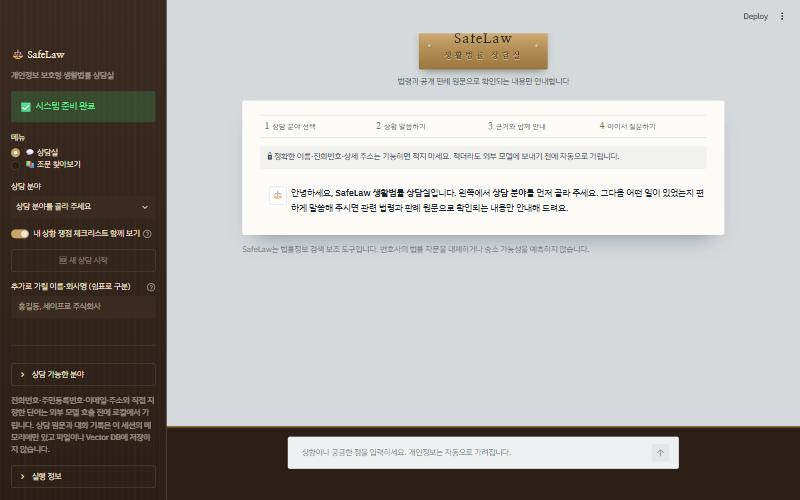
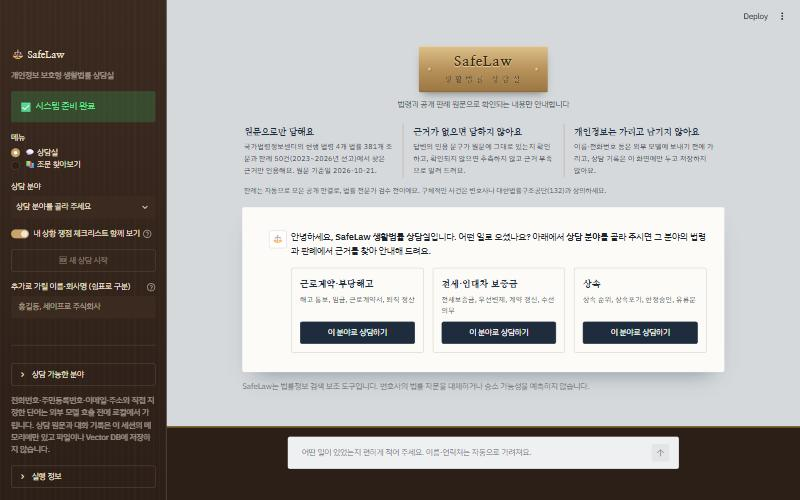
상담실 첫 화면에 신뢰 근거와 질문 진입점 추가
- 첫 질문 전 상담실 약속 3가지(원문으로만 답함, 근거 없으면 답하지 않음, 개인정보 가림·미저장)를 표시
- 법률·조문·판례 수와 선고 연도, 원문 기준일은 데이터셋 manifest에서 읽고, 판례 미검수와 법률구조공단(132)도 안내
- 상담 분야를 상담실 안 접수 카드에서 바로 선택, 상황 작성 요령과 이어 묻기 안내 추가
- 입력창 문구 정리, 모바일에서 사이드바 자동 접힘, 헤더가 문패를 가리지 않게 여백 조정
- 테스트 5개 추가(총 163개), README·검증 문서와 첫 화면 캡처 갱신

diff --git a/src/legal_rag/ui/streamlit_app.py b/src/legal_rag/ui/streamlit_app.py
@@ -2,6 +2,7 @@
 
 from __future__ import annotations
 
+import json
 import re
 import time
 from collections import Counter
@@ -33,6 +34,8 @@ STATUTE_CHUNKS_PATH = PROJECT_ROOT / "data" / "processed" / "statute_chunks.json
 CASE_INDEX_PATH = PROJECT_ROOT / "data" / "indexes" / "cases"
 STATIC_CASE_DATASET = PROJECT_ROOT / "data" / "processed" / "cases.json"
 CASE_CACHE_PATH = PROJECT_ROOT / "data" / "cache"
+STATUTE_MANIFEST_PATH = PROJECT_ROOT / "data" / "processed" / "statutes_manifest.json"
+CASE_MANIFEST_PATH = PROJECT_ROOT / "data" / "processed" / "cases_manifest.json"
 
 CATEGORY_LABELS = {
     LegalCategory.LABOR: "근로계약·부당해고",
@@ -148,6 +151,35 @@ def article_question(article_label: str, sanitized_question: str) -> str:
     """선택 조문을 질문 앞에 밝혀 검색과 답변이 그 조문을 중심으로 이뤄지게 한다."""
 
     return f"[선택 조문: {article_label}] {sanitized_question.strip()}"
+
+
+@dataclass(frozen=True, slots=True)
+class LibraryFacts:
+    statute_articles: int
+    law_count: int
+    case_count: int
+    oldest_decision: str
+    latest_decision: str
+    collected: str
+
+
+def load_library_facts(statute_manifest: Path = STATUTE_MANIFEST_PATH,
+                       case_manifest: Path = CASE_MANIFEST_PATH) -> LibraryFacts | None:
+    """상담실 약속 문구에 쓸 숫자를 데이터셋 manifest에서 읽는다. 읽지 못하면 숫자를 보여 주지 않는다."""
+
+    try:
+        statutes = json.loads(statute_manifest.read_text(encoding="utf-8"))
+        cases = json.loads(case_manifest.read_text(encoding="utf-8"))
+        return LibraryFacts(
+            statute_articles=int(statutes["document_count"]),
+            law_count=len(statutes["law_counts"]),
+            case_count=int(cases["document_count"]),
+            oldest_decision=str(cases["decision_date_range"]["oldest"]),
+            latest_decision=str(cases["decision_date_range"]["latest"]),
+            collected=str(statutes["collection_date"]),
+        )
+    except (OSError, ValueError, KeyError, TypeError):
+        return None
 
 
 def runtime_readiness(settings: Settings, index_path: Path | None = None) -> tuple[bool, str]:
@@ -270,7 +302,7 @@ def _inject_styles(st: Any) -> None:
         :root { --walnut: #2c1f18; --walnut-light: #3b2a20; --brass: #b08a52; --brass-dark: #8a6a38;
             --counsel: #1f2c3d; --paper: #fcfbf8; --wall: #d5d9dc; --ink-soft: #4b5560; }
         .stApp, [data-testid="stHeader"] { background: var(--wall); }
-        .block-container { max-width: 900px; padding-top: 1.4rem; padding-bottom: 7rem; }
+        .block-container { max-width: 900px; padding-top: 4rem; padding-bottom: 2rem; }
         [data-testid="stSidebar"] { background:
             repeating-linear-gradient(90deg, rgba(255,255,255,.018) 0 2px, transparent 2px 11px),
             linear-gradient(180deg, var(--walnut-light), var(--walnut)); }
@@ -296,13 +328,18 @@ def _inject_styles(st: Any) -> None:
         .st-key-consult_sheet, .st-key-checklist_panel { background: var(--paper); border-radius: 4px;
             box-shadow: 0 1px 0 rgba(31,44,61,.06), 0 22px 40px -22px rgba(31,44,61,.45); }
         .st-key-consult_sheet { padding: 1.6rem 2rem 1.2rem; }
-        .office-steps { display: grid; grid-template-columns: repeat(4, 1fr); margin: 0 0 .9rem;
-            border-top: 1px solid #e3ded2; border-bottom: 1px solid #e3ded2; }
-        .office-steps span { padding: .55rem .5rem; font-size: .84rem; color: var(--ink-soft); line-height: 1.35; }
-        .office-steps b { font-family: "Nanum Myeongjo", serif; font-size: 1rem; color: var(--brass-dark);
-            margin-right: .35rem; }
-        .privacy-box { background: #f1f2ef; border-radius: 4px; padding: .6rem .85rem; color: #34404b;
-            margin: 0 0 1rem; font-size: .88rem; }
+        .trust-row { display: grid; grid-template-columns: repeat(3, 1fr); margin: 0 0 1.3rem; }
+        .trust-row div { padding: .1rem 1.1rem; border-left: 1px solid rgba(138,106,56,.45); }
+        .trust-row div:first-child { border-left: 0; padding-left: .2rem; }
+        .trust-row strong { display: block; font-family: "Nanum Myeongjo", serif; font-size: 1rem;
+            color: var(--counsel); margin-bottom: .3rem; }
+        .trust-row p { margin: 0; font-size: .84rem; line-height: 1.55; color: #3a434d; }
+        [data-testid="stMarkdownContainer"] p.trust-note { margin: -.4rem 0 1.2rem .2rem; font-size: .8rem;
+            color: var(--ink-soft); }
+        .st-key-intake_choices [data-testid="stVerticalBlockBorderWrapper"] { background: #fff; }
+        [data-testid="stMarkdownContainer"] p.intake-title { font-family: "Nanum Myeongjo", serif; font-weight: 800; font-size: 1.05rem;
+            color: var(--counsel); margin: 0 0 .25rem; }
+        [data-testid="stMarkdownContainer"] p.intake-topics { font-size: .84rem; color: var(--ink-soft); margin: 0 0 .6rem; line-height: 1.5; min-height: 3em; }
         [data-testid="stChatMessage"] { background: transparent; }
         [data-testid="stChatMessage"]:has([aria-label="Chat message from user"]) { background: #edf0f4;
             border-radius: 4px; }
@@ -320,7 +357,8 @@ def _inject_styles(st: Any) -> None:
         @media (max-width: 640px) {
             [data-testid="stColumn"]:has(.st-key-checklist_panel) { position: static; max-height: none; }
             .st-key-consult_sheet { padding: 1.1rem 1rem .8rem; }
-            .office-steps { grid-template-columns: repeat(2, 1fr); }
+            .trust-row { grid-template-columns: 1fr; gap: .8rem; }
+            .trust-row div { border-left: 0; padding-left: .2rem; }
             .nameplate .plate { padding: .7rem 2.2rem .65rem; }
             .nameplate .firm { font-size: 1.35rem; }
         }
@@ -551,13 +589,58 @@ def _render_user_turn(st: Any, message: dict[str, Any]) -> None:
 def _consult_greeting(category: LegalCategory | None) -> str:
     if category is None:
         return (
-            "안녕하세요, **SafeLaw 생활법률 상담실**입니다. 왼쪽에서 **상담 분야**를 먼저 골라 주세요. "
-            "그다음 어떤 일이 있었는지 편하게 말씀해 주시면 관련 법령과 판례 원문으로 확인되는 내용만 안내해 드려요."
+            "안녕하세요, **SafeLaw 생활법률 상담실**입니다. 어떤 일로 오셨나요? "
+            "아래에서 **상담 분야**를 골라 주시면 그 분야의 법령과 판례에서 근거를 찾아 안내해 드려요."
         )
     return (
-        f"**{CATEGORY_LABELS[category]}** 상담을 도와드릴게요. 어떤 일이 있었는지 아래 입력창에 말씀해 주세요. "
+        f"**{CATEGORY_LABELS[category]}** 상담을 도와드릴게요. 어떤 일이 있었는지 아래 입력창에 편하게 말씀해 주세요. "
         "답변을 보신 뒤 궁금한 점을 이어서 물으시면 앞선 상담 내용을 함께 고려해 답해 드려요."
     )
+
+
+def _trust_row_html(facts: LibraryFacts | None) -> str:
+    if facts is None:
+        sources = "국가법령정보센터의 법령·판례 원문에서 찾은 근거만 인용해요."
+    else:
+        sources = (
+            f"국가법령정보센터의 현행 법령 {facts.law_count}개 법률 {facts.statute_articles}개 조문과 "
+            f"판례 {facts.case_count}건({facts.oldest_decision[:4]}~{facts.latest_decision[:4]}년 선고)에서 "
+            f"찾은 근거만 인용해요. 원문 기준일 {facts.collected}."
+        )
+    return (
+        '<div class="trust-row">'
+        f"<div><strong>원문으로만 답해요</strong><p>{sources}</p></div>"
+        "<div><strong>근거가 없으면 답하지 않아요</strong><p>답변의 인용 문구가 원문에 그대로 있는지 확인하고, "
+        "확인되지 않으면 추측하지 않고 근거 부족으로 알려 드려요.</p></div>"
+        "<div><strong>개인정보는 가리고 남기지 않아요</strong><p>이름·전화번호 등은 외부 모델에 보내기 전에 가리고, "
+        "상담 기록은 이 화면에만 두고 저장하지 않아요.</p></div>"
+        "</div>"
+    )
+
+
+def _choose_category(state: Any, category: LegalCategory) -> None:
+    state["consult_category"] = category
+
+
+def _render_intake(st: Any, ready: bool) -> None:
+    """상담 분야를 사이드바까지 가지 않고 상담실 안에서 바로 고르게 한다."""
+
+    with st.container(key="intake_choices"):
+        for column, (category, label) in zip(st.columns(3), CATEGORY_LABELS.items()):
+            with column, st.container(border=True):
+                st.markdown(
+                    f'<p class="intake-title">{label}</p><p class="intake-topics">{CATEGORY_HELP[category]}</p>',
+                    unsafe_allow_html=True,
+                )
+                st.button(
+                    "이 분야로 상담하기",
+                    key=f"intake_{category.value}",
+                    on_click=_choose_category,
+                    args=(st.session_state, category),
+                    type="primary",
+                    use_container_width=True,
+                    disabled=not ready,
+                )
 
 
 def _queue_prompt(state: Any, prompt: str) -> None:
@@ -570,6 +653,16 @@ def _render_consultation_room(st: Any, settings: Settings, ready: bool, options:
     if CONSULT_THREAD_KEY not in st.session_state:
         _start_new_consultation(st.session_state)
     messages: list[dict[str, Any]] = st.session_state[CONSULT_MESSAGES_KEY]
+    if not messages:
+        # 첫 질문 전에는 상담실이 지키는 약속을 데이터셋의 실제 숫자로 보여 준다.
+        if "safelaw_library_facts" not in st.session_state:
+            st.session_state.safelaw_library_facts = load_library_facts()
+        st.markdown(_trust_row_html(st.session_state.safelaw_library_facts), unsafe_allow_html=True)
+        st.markdown(
+            '<p class="trust-note">판례는 자동으로 모은 공개 판결로, 법률 전문가 검수 전이에요. '
+            "구체적인 사건은 변호사나 대한법률구조공단(132)과 상의하세요.</p>",
+            unsafe_allow_html=True,
+        )
     focused = _focused_checklist_message(st.session_state, messages)
     focused_token = focused["token"] if focused else None
 
@@ -583,21 +676,14 @@ def _render_consultation_room(st: Any, settings: Settings, ready: bool, options:
             _render_checklist_panel(st, messages, focused)
         sheet = chat_area.container(key="consult_sheet")
     with sheet:
-        st.markdown(
-            '<div class="office-steps"><span><b>1</b>상담 분야 선택</span><span><b>2</b>상황 말씀하기</span>'
-            '<span><b>3</b>근거와 함께 안내</span><span><b>4</b>이어서 질문하기</span></div>',
-            unsafe_allow_html=True,
-        )
-        st.markdown(
-            '<div class="privacy-box">🔒 정확한 이름·전화번호·상세 주소는 가능하면 적지 마세요. '
-            '적더라도 외부 모델에 보내기 전에 자동으로 가립니다.</div>',
-            unsafe_allow_html=True,
-        )
         conversation = st.container()
     with conversation:
         with st.chat_message("assistant", avatar=ASSISTANT_AVATAR):
             st.markdown(_consult_greeting(options.category))
-            if options.category is not None and not messages:
+            if options.category is None:
+                _render_intake(st, ready)
+            elif not messages:
+                st.caption("언제 있었던 일인지, 누가 무엇을 했는지, 받은 문서나 메시지가 있는지 적어 주시면 더 정확해요.")
                 st.caption("이런 상황을 많이 물어보세요")
                 for index, example in enumerate(EXAMPLE_QUESTIONS[options.category]):
                     st.button(
@@ -608,16 +694,18 @@ def _render_consultation_room(st: Any, settings: Settings, ready: bool, options:
                         use_container_width=True,
                         disabled=not ready,
                     )
-        for message in messages:
+        for index, message in enumerate(messages):
             avatar = USER_AVATAR if message["role"] == "user" else ASSISTANT_AVATAR
             with st.chat_message(message["role"], avatar=avatar):
                 if message["role"] == "user":
                     _render_user_turn(st, message)
                 else:
                     _render_answer(st, message, focused_token)
+                    if index == len(messages) - 1:
+                        st.caption("더 궁금한 점은 아래에 이어서 물어보세요. 앞선 상담 내용을 기억하고 답해 드려요.")
 
     typed = st.chat_input(
-        "상황이나 궁금한 점을 입력하세요. 개인정보는 자동으로 가려집니다.",
+        "어떤 일이 있었는지 편하게 적어 주세요. 이름·연락처는 자동으로 가려져요.",
         key="consult_chat_input",
         disabled=not ready,
         max_chars=2000,
@@ -628,7 +716,7 @@ def _render_consultation_room(st: Any, settings: Settings, ready: bool, options:
         return
     if options.category is None:
         with conversation, st.chat_message("assistant", avatar=ASSISTANT_AVATAR):
-            st.warning("왼쪽에서 상담 분야를 먼저 골라 주세요.")
+            st.warning("위에서 상담 분야를 먼저 골라 주세요.")
         return
     _run_consultation_turn(st, settings, options, conversation, messages, prompt)
 
@@ -707,7 +795,7 @@ def main() -> None:
         page_title="SafeLaw | 생활법률 상담실",
         page_icon="⚖",
         layout="centered",
-        initial_sidebar_state="expanded",
+        initial_sidebar_state="auto",
     )
     _inject_styles(st)
 

diff --git a/tests/test_consultation_room.py b/tests/test_consultation_room.py
@@ -152,6 +152,37 @@ class ConsultationHistoryTests(ConsultationAppTestCase):
         self.assertEqual(self.app.session_state[streamlit_app.CONSULT_MESSAGES_KEY], [])
 
 
+class IntakeTests(ConsultationAppTestCase):
+    def test_client_can_pick_a_category_in_the_room(self):
+        intake = [button for button in self.app.button if button.key and button.key.startswith("intake_")]
+        self.assertEqual(len(intake), 3)
+
+        self.app.button(key="intake_labor").click().run()
+
+        self.assertEqual(self.app.sidebar.selectbox(key="consult_category").value, LegalCategory.LABOR)
+        examples = [button for button in self.app.button if button.key and button.key.startswith("example_labor")]
+        self.assertEqual(len(examples), 3)
+
+    def test_promises_show_real_dataset_numbers_until_the_first_question(self):
+        promises = " ".join(md.value for md in self.app.markdown if 'class="trust-row"' in md.value)
+        self.assertIn("381개 조문", promises)
+        self.assertIn("판례 50건", promises)
+        self.assertIn("근거가 없으면", promises)
+
+        self.start_labor()
+        self.ask("카톡으로 해고 통보를 받았어요")
+
+        self.assertEqual([md for md in self.app.markdown if 'class="trust-row"' in md.value], [])
+
+    def test_only_the_latest_answer_invites_a_follow_up(self):
+        self.start_labor()
+        self.ask("카톡으로 해고 통보를 받았어요")
+        self.ask("서면으로 다시 받으면요?")
+
+        invites = [caption for caption in self.app.caption if "이어서 물어보세요" in caption.value]
+        self.assertEqual(len(invites), 1)
+
+
 class ChecklistPanelTests(ConsultationAppTestCase):
     def setUp(self):
         super().setUp()

diff --git a/tests/test_streamlit_ui.py b/tests/test_streamlit_ui.py
@@ -16,6 +16,7 @@ from legal_rag.ui.streamlit_app import (
     STATUS_PRESENTATIONS,
     article_question,
     chat_history,
+    load_library_facts,
     parse_sensitive_terms,
     runtime_readiness,
 )
@@ -73,6 +74,22 @@ class StreamlitUiTests(unittest.TestCase):
 
         self.assertTrue(question.startswith("[선택 조문: 근로기준법 제27조 (해고사유 등의 서면통지)]"))
         self.assertIn("[PERSON_1]이 카톡으로 해고했어요", question)
+
+
+
+class LibraryFactsTests(unittest.TestCase):
+    def test_reads_counts_and_dates_from_the_dataset_manifests(self):
+        facts = load_library_facts()
+
+        self.assertEqual(facts.statute_articles, 381)
+        self.assertEqual(facts.law_count, 4)
+        self.assertEqual(facts.case_count, 50)
+        self.assertEqual(facts.collected, "2026-10-21")
+        self.assertEqual((facts.oldest_decision, facts.latest_decision), ("2023-08-17", "2026-06-24"))
+
+    def test_missing_manifest_gives_no_numbers(self):
+        with tempfile.TemporaryDirectory() as folder:
+            self.assertIsNone(load_library_facts(Path(folder) / "none.json", Path(folder) / "none.json"))
 
 
 if __name__ == "__main__":

diff --git a/docs/verification-results.md b/docs/verification-results.md
@@ -9,7 +9,7 @@
 | 필수 기능 F2001~F2012 | 12개 모두 통과 |
 | 심화 기능 | F2013 HTML/CSS/JS 화면 통과, F2014 MMR 통과, F2015 RAG 전후 비교 통과, F2016 부분 |
 | 비기능 NF2001~NF2007 | 7개 모두 통과 |
-| 자동 테스트 | 158개 통과 |
+| 자동 테스트 | 163개 통과 |
 | 남은 항목 | [7장](#7-남은-항목) 참고 |
 
 ## 2. 확인 항목별 결과 (명세서 4.1~4.7)
@@ -55,6 +55,7 @@
 | 조건 탐색 결과에 조건과 맞지 않는 항목이 섞이지 않음 | 통과 | "해고할 때 회사가 지켜야 하는 통보 절차" → 후보 10개 중 제27조·제26조만 선정 이유와 함께 표시. 후보 밖 번호는 코드가 무시 |
 | 도메인 특화 기능의 결과에도 근거 제시 | 통과 | 쟁점 체크리스트 항목마다 `[근거 N]`과 원문 인용 문구, 근거 링크 목록 |
 | 체크리스트는 대화에 요약, 전체는 오른쪽 패널 | 통과 | 답변 안에는 상태별 개수 요약만 있고 체크박스는 패널에만 있음. 새 답변이 오면 패널이 최신 답변으로 바뀌고, 이전 답변의 `오른쪽 패널에서 보기`로 전환됨 (`test_consultation_room`). 1440px에서 패널 고정(sticky), 375px에서 대화 아래로 내려감을 GMS 호출 없는 가짜 파이프라인으로 확인 |
+| 첫 화면에서 신뢰 근거와 질문 진입점 제시 | 통과 | 첫 질문 전에 `원문으로만 답해요`·`근거가 없으면 답하지 않아요`·`개인정보는 가리고 남기지 않아요` 약속을 보여 주고, 숫자(법률 4개·조문 381개·판례 50건·2023~2026년 선고·기준일 2026-10-21)는 데이터셋 manifest에서 읽음. 판례 미검수 사실과 대한법률구조공단(132) 안내를 함께 표시. 상담 분야를 상담실 안에서 바로 고르고, 마지막 답변 아래에만 이어 묻기 안내 (`test_consultation_room`, `test_streamlit_ui`) |
 | 체크리스트 법률 용어를 쉬운 말로 풀이 | 통과 | 미리 작성한 용어집(50개)에서 항목에 나온 용어만 골라 `📖`로 표시, 같은 용어는 한 번만. 풀이의 기간·비율(해고예고 30일, 구제신청 3개월, 휴업수당 70%, 대항력 다음 날, 상속 승인·포기 3개월, 상속회복 3년·10년, 임금 시효 3년 등)은 색인된 조문 원문과 대조함 (`test_glossary`, `test_consultation_room`) |
 | 문서 수집·답변 생성 중 진행 상태 표시 | 통과 | 답변·체크리스트·조문 채팅은 spinner, 조건 탐색은 `st.status`로 "후보 N개 중 M개 조문을 골랐습니다" |
 | 색인 없음·API 키 없음 안내 | 통과 | `GMS_KEY` 없이 실행 → 사이드바 ".env에 GMS_KEY를 설정해 주세요.", 검토 버튼 비활성 (Streamlit AppTest). 색인 경로가 없으면 "법령 색인이 없습니다. build_statute_index.py를 먼저 실행해 주세요." |
@@ -138,12 +139,12 @@
 
 ### 4.1 자동 테스트
 
-`.\.venv\Scripts\python.exe -m unittest discover -s tests` → **158개 통과** (2026-10-22). 빈 venv에서 `pip install -e .` 후에도 통과를 확인했다.
+`.\.venv\Scripts\python.exe -m unittest discover -s tests` → **163개 통과** (2026-10-22). 빈 venv에서 `pip install -e .` 후에도 통과를 확인했다.
 
 | 모듈 | 개수 | 대상 |
 |---|---:|---|
 | test_pipeline | 18 | LangGraph 노드, 상담 스레드 맥락·삭제, 재시도, 고정 조문, Top-k |
-| test_consultation_room | 9 | 상담실 채팅 AppTest: 분야 안내, 대화 누적·마스킹, 새 상담 스레드, 지난 상담 복구·삭제, 체크리스트 요약·오른쪽 패널 전환·용어 풀이 |
+| test_consultation_room | 12 | 상담실 채팅 AppTest: 분야 안내·상담실 안 분야 선택, 상담 약속 문구, 대화 누적·마스킹, 이어 묻기 안내, 새 상담 스레드, 지난 상담 복구·삭제, 체크리스트 요약·오른쪽 패널 전환·용어 풀이 |
 | test_glossary | 7 | 체크리스트 용어 풀이: 등장 순서, 긴 용어 우선, 조문식 표현 연결, 중복 제거 |
 | test_retrieval | 13 | 검색어 확장·규칙(유류분 포함), RRF, 판례 재정렬 |
 | test_issue_checklist | 11 | 체크리스트 파싱·항목 단위 검증·재시도 |
@@ -152,7 +153,7 @@
 | test_web_api | 7 | F2013 API 요청·응답·오류 처리 |
 | test_mmr | 7 | MMR 선택, 검색 방식 |
 | test_config | 6 | `.env` 설정, 검색어 변환 모델 기본값 |
-| test_streamlit_ui | 6 | 화면 문구, 조문별 대화 분리 |
+| test_streamlit_ui | 8 | 화면 문구, 조문별 대화 분리, 데이터셋 manifest 숫자 읽기 |
 | test_citations | 6 | 인용 검증 |
 | test_case_enrichment | 6 | 판례 보강, 선택·탈락 기록, 캐시 |
 | test_chunking | 5 | 조문 청킹, 삭제 조문 제외 |

diff --git a/README.md b/README.md
@@ -129,6 +129,7 @@ Streamlit의 기본 주소는 `http://localhost:8501`, 웹 화면은 `http://loc
 
 **💬 상담실** — 법률 상담소에서 상담하듯 대화가 아래로 쌓이고, 입력창은 화면 아래에 고정됩니다.
 화면은 로펌 상담실처럼 꾸몄습니다. 사이드바는 호두나무 벽판, 입력창은 책상 위, 대화는 석회암 벽 앞에 놓인 상담 기록지에 쌓이고, 맨 위에는 황동 문패가 붙어 있습니다. 제목은 나눔명조, 본문은 IBM Plex Sans KR이며 테마는 `.streamlit/config.toml`, 장식은 `ui/streamlit_app.py`의 `_inject_styles`에 있습니다.
+첫 질문 전에는 상담실이 지키는 세 가지 약속(원문으로만 답함, 근거가 없으면 답하지 않음, 개인정보는 가리고 남기지 않음)을 데이터셋 manifest의 실제 숫자와 함께 보여 주고, 판례가 법률 전문가 검수 전이라는 점과 대한법률구조공단(132)도 함께 알립니다. 상담 분야는 사이드바까지 가지 않고 상담실 안 세 장의 접수 카드에서 바로 고르며, 답변 뒤에는 이어서 물어보라는 안내가 붙습니다.
 
 - 왼쪽에서 상담 분야를 고르면 상담 안내와 자주 묻는 상황 예시가 나타나고, 예시를 누르면 바로 질문됩니다.
 - **이어지는 질문**: 같은 상담 안에서 "그럼 회사가 나중에 서면으로 보내면요?"처럼 이어 물으면, LangGraph 체크포인터에 쌓인 앞선 질문(최근 3개)을 함께 붙여 검색하고 답합니다. `🆕 새 상담 시작`을 누르면 새 상담 스레드가 열립니다.
